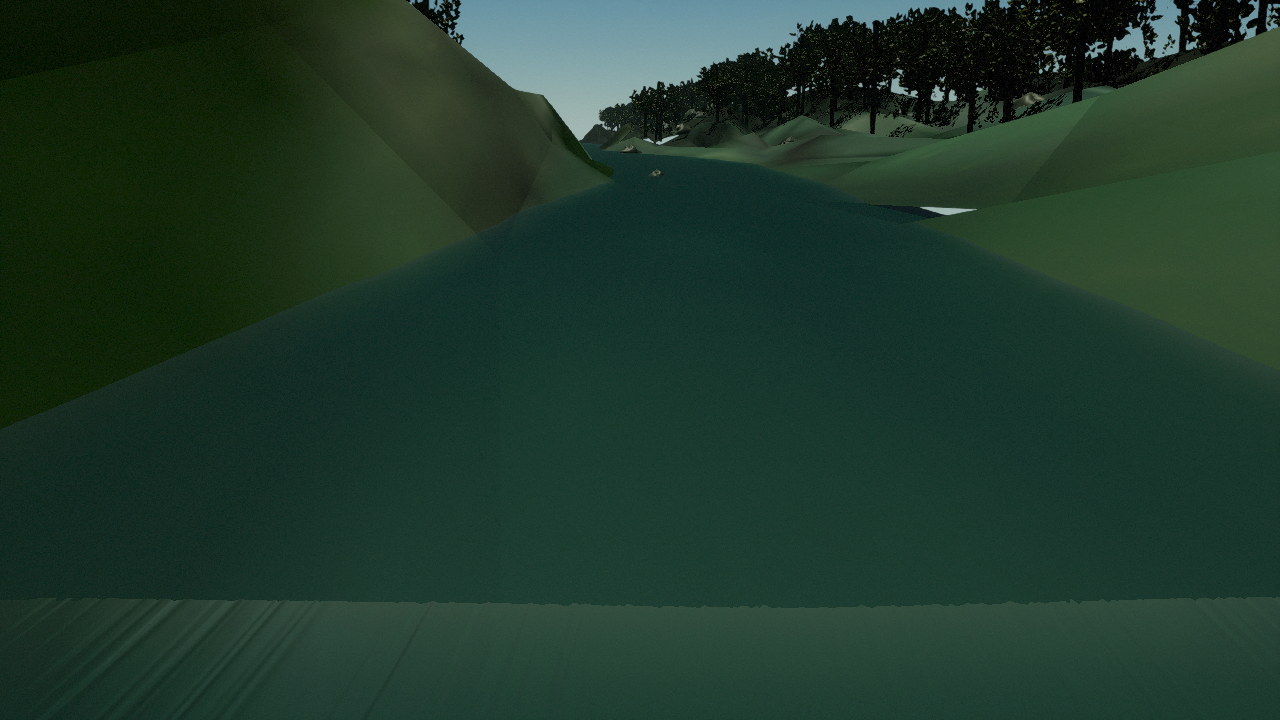
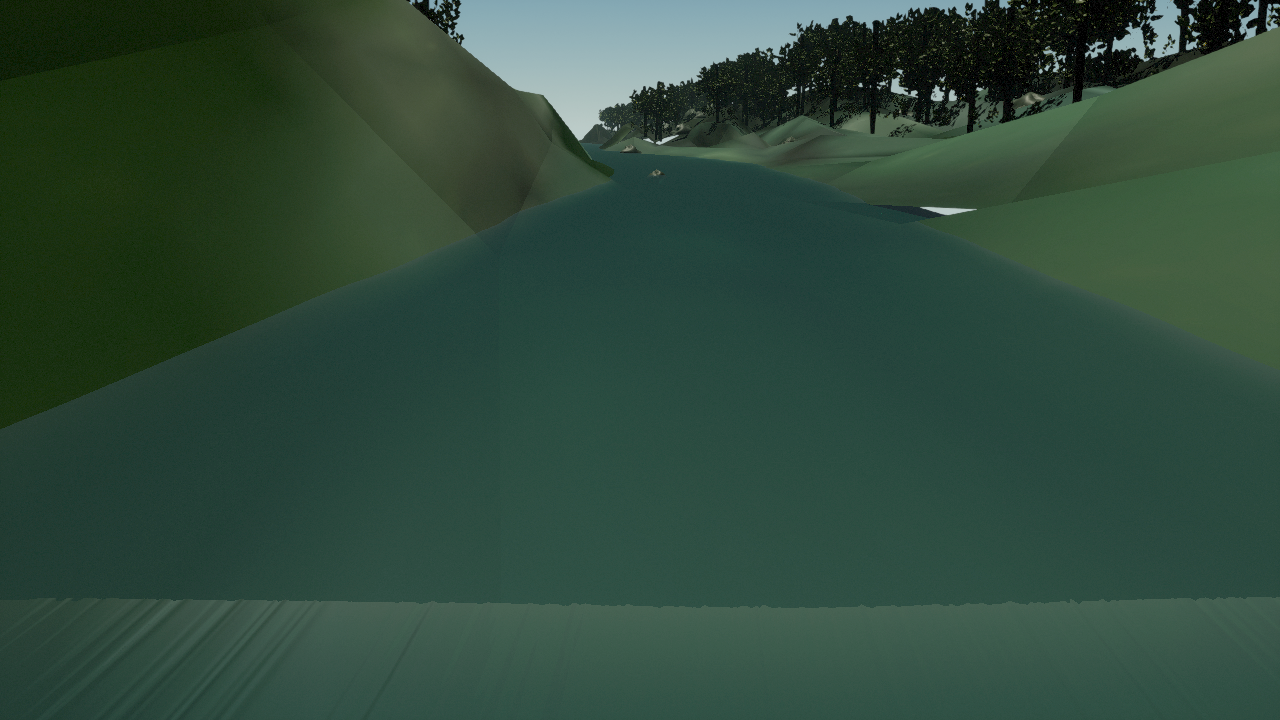
Calibrate river-specific capture photometry

diff --git a/unreal/Plugins/RaftSim/Source/RaftSimEditor/Private/RaftSimEditorModule.cpp b/unreal/Plugins/RaftSim/Source/RaftSimEditor/Private/RaftSimEditorModule.cpp
@@ -286,6 +286,52 @@ FRaftSimLandscapeCandidateWaterSettings GetLandscapeCandidateWaterSettings(const
     return Settings;
 }
 
+struct FRaftSimPhotographicCaptureSettings
+{
+    float SunIntensity = 5.20f;
+    float SkyLightIntensity = 1.25f;
+    float FogDensity = 0.0025f;
+    float ExposureBias = -0.32f;
+    float Saturation = 1.06f;
+    float Contrast = 1.04f;
+    float Sharpen = 0.24f;
+    float Vignette = 0.06f;
+    float FilmGrainIntensity = 0.0f;
+    FLinearColor SunColor = FLinearColor(0.98f, 0.965f, 0.91f);
+    FLinearColor FogColor = FLinearColor(0.52f, 0.57f, 0.50f);
+};
+
+FRaftSimPhotographicCaptureSettings GetPhotographicCaptureSettings(const FString& RiverId)
+{
+    FRaftSimPhotographicCaptureSettings Settings;
+    if (RiverId == TEXT("colorado_river"))
+    {
+        Settings.SunIntensity = 6.40f;
+        Settings.SkyLightIntensity = 1.05f;
+        Settings.FogDensity = 0.0016f;
+        Settings.ExposureBias = -0.38f;
+        Settings.Saturation = 1.10f;
+        Settings.Contrast = 1.07f;
+        Settings.Sharpen = 0.26f;
+        Settings.SunColor = FLinearColor(1.0f, 0.88f, 0.72f);
+        Settings.FogColor = FLinearColor(0.64f, 0.57f, 0.47f);
+    }
+    else if (RiverId == TEXT("pacuare"))
+    {
+        Settings.SunIntensity = 4.60f;
+        Settings.SkyLightIntensity = 1.45f;
+        Settings.FogDensity = 0.0075f;
+        Settings.ExposureBias = -0.18f;
+        Settings.Saturation = 1.04f;
+        Settings.Contrast = 1.03f;
+        Settings.Sharpen = 0.22f;
+        Settings.Vignette = 0.05f;
+        Settings.SunColor = FLinearColor(0.90f, 0.97f, 0.91f);
+        Settings.FogColor = FLinearColor(0.43f, 0.57f, 0.46f);
+    }
+    return Settings;
+}
+
 FRaftSimPreviewWaterMaterialResponse GetPreviewWaterMaterialResponse(const FString& RiverId)
 {
     FRaftSimPreviewWaterMaterialResponse Response;
@@ -15033,17 +15079,16 @@ void AddPreviewLightRig(UWorld* World, const FRaftSimEnvironmentPreviewSpec& Spe
     {
         return;
     }
+    const FRaftSimPhotographicCaptureSettings CaptureSettings =
+        GetPhotographicCaptureSettings(Spec.RiverId);
 
     ADirectionalLight* Sun = Cast<ADirectionalLight>(
         GEditor->AddActor(World->GetCurrentLevel(), ADirectionalLight::StaticClass(), FTransform(FRotator(-58.0f, -30.0f, 0.0f))));
     if (Sun)
     {
         Sun->SetActorLabel(TEXT("RaftSim_Sun_LumenPreview"));
-        Sun->GetLightComponent()->SetIntensity(Spec.bDesertCanyon ? 6.8f : (Spec.bHasWaterfalls ? 5.4f : 5.8f));
-        Sun->GetLightComponent()->SetLightColor(
-            Spec.bDesertCanyon ? FLinearColor(1.0f, 0.84f, 0.66f)
-                                : (Spec.bHasWaterfalls ? FLinearColor(0.88f, 0.96f, 0.90f)
-                                                       : FLinearColor(0.98f, 0.96f, 0.88f)));
+        Sun->GetLightComponent()->SetIntensity(CaptureSettings.SunIntensity);
+        Sun->GetLightComponent()->SetLightColor(CaptureSettings.SunColor);
     }
 
     ASkyLight* SkyLight = Cast<ASkyLight>(
@@ -15053,7 +15098,7 @@ void AddPreviewLightRig(UWorld* World, const FRaftSimEnvironmentPreviewSpec& Spe
         SkyLight->SetActorLabel(TEXT("RaftSim_SkyLight_PhotorealPreview"));
         SkyLight->GetLightComponent()->SetMobility(EComponentMobility::Movable);
         SkyLight->GetLightComponent()->SourceType = SLS_CapturedScene;
-        SkyLight->GetLightComponent()->SetIntensity(Spec.bDesertCanyon ? 0.98f : (Spec.bHasWaterfalls ? 0.74f : 0.68f));
+        SkyLight->GetLightComponent()->SetIntensity(CaptureSettings.SkyLightIntensity);
     }
 
     ASkyAtmosphere* Atmosphere = Cast<ASkyAtmosphere>(
@@ -15068,11 +15113,8 @@ void AddPreviewLightRig(UWorld* World, const FRaftSimEnvironmentPreviewSpec& Spe
     if (Fog)
     {
         Fog->SetActorLabel(Spec.bHasWaterfalls ? TEXT("RaftSim_RainforestMist") : TEXT("RaftSim_CanyonAtmosphere"));
-        Fog->GetComponent()->SetFogDensity(Spec.bHasWaterfalls ? 0.007f : (Spec.bDesertCanyon ? 0.002f : 0.003f));
-        Fog->GetComponent()->SetFogInscatteringColor(
-            Spec.bDesertCanyon ? FLinearColor(0.62f, 0.53f, 0.40f)
-                                : (Spec.bHasWaterfalls ? FLinearColor(0.42f, 0.54f, 0.42f)
-                                                       : FLinearColor(0.50f, 0.54f, 0.45f)));
+        Fog->GetComponent()->SetFogDensity(CaptureSettings.FogDensity);
+        Fog->GetComponent()->SetFogInscatteringColor(CaptureSettings.FogColor);
     }
 
     if (SkyLight && SkyLight->GetLightComponent())
@@ -15112,6 +15154,8 @@ void AddPreviewCameraAndStart(UWorld* World, const FRaftSimEnvironmentPreviewSpe
     {
         return;
     }
+    const FRaftSimPhotographicCaptureSettings CaptureSettings =
+        GetPhotographicCaptureSettings(Spec.RiverId);
 
     ACameraActor* Camera = Cast<ACameraActor>(
         GEditor->AddActor(World->GetCurrentLevel(), ACameraActor::StaticClass(), FTransform(FRotator(-13.5f, 0.0f, 0.0f), FVector(-5250.0f, GetPreviewRiverCenterY(Spec, -5250.0f), 140.0f))));
@@ -15120,63 +15164,41 @@ void AddPreviewCameraAndStart(UWorld* World, const FRaftSimEnvironmentPreviewSpe
         Camera->SetActorLabel(TEXT("RaftSim_GuideSeat_DownstreamCaptureCamera"));
         Camera->GetCameraComponent()->FieldOfView = Spec.bDesertCanyon ? 66.0f : 68.0f;
         Camera->GetCameraComponent()->PostProcessSettings.bOverride_VignetteIntensity = true;
-        Camera->GetCameraComponent()->PostProcessSettings.VignetteIntensity = 0.10f;
+        Camera->GetCameraComponent()->PostProcessSettings.VignetteIntensity = CaptureSettings.Vignette;
         Camera->GetCameraComponent()->PostProcessSettings.bOverride_Sharpen = true;
-        Camera->GetCameraComponent()->PostProcessSettings.Sharpen = 0.34f;
-        const float FirstPartyPhotographicPaletteCompressionSaturation =
-            Spec.bDesertCanyon ? 1.24f : 1.12f;
-        const float FirstPartyPhotographicPaletteCompressionContrast =
-            Spec.bDesertCanyon ? 1.15f : 1.08f;
+        Camera->GetCameraComponent()->PostProcessSettings.Sharpen = CaptureSettings.Sharpen;
         Camera->GetCameraComponent()->PostProcessSettings.bOverride_ColorSaturation = true;
         Camera->GetCameraComponent()->PostProcessSettings.ColorSaturation =
             FVector4(
-                FirstPartyPhotographicPaletteCompressionSaturation,
-                FirstPartyPhotographicPaletteCompressionSaturation,
-                FirstPartyPhotographicPaletteCompressionSaturation,
+                CaptureSettings.Saturation,
+                CaptureSettings.Saturation,
+                CaptureSettings.Saturation,
                 1.0f);
         Camera->GetCameraComponent()->PostProcessSettings.bOverride_ColorContrast = true;
         Camera->GetCameraComponent()->PostProcessSettings.ColorContrast =
             FVector4(
-                FirstPartyPhotographicPaletteCompressionContrast,
-                FirstPartyPhotographicPaletteCompressionContrast,
-                FirstPartyPhotographicPaletteCompressionContrast,
+                CaptureSettings.Contrast,
+                CaptureSettings.Contrast,
+                CaptureSettings.Contrast,
                 1.0f);
         Camera->GetCameraComponent()->PostProcessSettings.bOverride_AutoExposureMethod = true;
         Camera->GetCameraComponent()->PostProcessSettings.AutoExposureMethod = AEM_Manual;
         Camera->GetCameraComponent()->PostProcessSettings.bOverride_AutoExposureBias = true;
-        const float FirstPartyPhotographicPaletteCompressionExposureBias =
-            Spec.bDesertCanyon ? -0.48f : -0.72f;
         Camera->GetCameraComponent()->PostProcessSettings.AutoExposureBias =
-            FirstPartyPhotographicPaletteCompressionExposureBias;
+            CaptureSettings.ExposureBias;
         Camera->GetCameraComponent()->PostProcessSettings.bOverride_AutoExposureApplyPhysicalCameraExposure = true;
         Camera->GetCameraComponent()->PostProcessSettings.AutoExposureApplyPhysicalCameraExposure = 0;
-        const float FirstPartyPhotographicPaletteCompressionFilmGrainIntensity =
-            Spec.bDesertCanyon ? 0.18f : (Spec.bHasWaterfalls ? 0.28f : 0.15f);
         Camera->GetCameraComponent()->PostProcessSettings.bOverride_FilmGrainIntensity = true;
         Camera->GetCameraComponent()->PostProcessSettings.FilmGrainIntensity =
-            FirstPartyPhotographicPaletteCompressionFilmGrainIntensity;
+            CaptureSettings.FilmGrainIntensity;
         Camera->GetCameraComponent()->PostProcessSettings.bOverride_FilmGrainIntensityShadows = true;
-        Camera->GetCameraComponent()->PostProcessSettings.FilmGrainIntensityShadows = 0.82f;
+        Camera->GetCameraComponent()->PostProcessSettings.FilmGrainIntensityShadows = 0.0f;
         Camera->GetCameraComponent()->PostProcessSettings.bOverride_FilmGrainIntensityMidtones = true;
-        Camera->GetCameraComponent()->PostProcessSettings.FilmGrainIntensityMidtones = 0.68f;
+        Camera->GetCameraComponent()->PostProcessSettings.FilmGrainIntensityMidtones = 0.0f;
         Camera->GetCameraComponent()->PostProcessSettings.bOverride_FilmGrainIntensityHighlights = true;
-        Camera->GetCameraComponent()->PostProcessSettings.FilmGrainIntensityHighlights = 0.34f;
+        Camera->GetCameraComponent()->PostProcessSettings.FilmGrainIntensityHighlights = 0.0f;
         Camera->GetCameraComponent()->PostProcessSettings.bOverride_FilmGrainScale = true;
-        Camera->GetCameraComponent()->PostProcessSettings.FilmGrainScale = FVector2f(1.15f, 1.15f);
-        if (Spec.bHasWaterfalls)
-        {
-            Camera->GetCameraComponent()->PostProcessSettings.FilmGrainScale = FVector2f(0.82f, 0.82f);
-        }
-        if (GEngine)
-        {
-            GEngine->LoadDefaultFilmGrainTexture();
-            if (GEngine->DefaultFilmGrainTexture)
-            {
-                Camera->GetCameraComponent()->PostProcessSettings.bOverride_FilmGrainTexture = true;
-                Camera->GetCameraComponent()->PostProcessSettings.FilmGrainTexture =
-                    GEngine->DefaultFilmGrainTexture;
-            }
-        }
+        Camera->GetCameraComponent()->PostProcessSettings.FilmGrainScale = FVector2f(1.0f, 1.0f);
         GEditor->SelectActor(Camera, true, false, true);
     }
 
@@ -18385,6 +18407,8 @@ bool FRaftSimEditorModule::CreateLandscapeImportCandidateMaps(FString& OutSummar
             GetLandscapeMaterialCandidateSettings(Candidate.PreviewSpec.RiverId);
         const FRaftSimLandscapeCandidateWaterSettings WaterSettings =
             GetLandscapeCandidateWaterSettings(Candidate.PreviewSpec.RiverId);
+        const FRaftSimPhotographicCaptureSettings CaptureSettings =
+            GetPhotographicCaptureSettings(Candidate.PreviewSpec.RiverId);
 
         EntriesJson += FString::Printf(
             TEXT("%s    {\n")
@@ -18399,6 +18423,16 @@ bool FRaftSimEditorModule::CreateLandscapeImportCandidateMaps(FString& OutSummar
             TEXT("      \"solver_rapid_river_eye_capture\": \"%s\",\n")
             TEXT("      \"solver_rapid_capture_status\": \"%s\",\n")
             TEXT("      \"status\": \"%s\",\n")
+            TEXT("      \"photographic_capture_status\": \"river_specific_recorded_capture_photometry_no_camera_film_grain\",\n")
+            TEXT("      \"photographic_sun_intensity\": %.6f,\n")
+            TEXT("      \"photographic_skylight_intensity\": %.6f,\n")
+            TEXT("      \"photographic_fog_density\": %.6f,\n")
+            TEXT("      \"photographic_exposure_bias\": %.6f,\n")
+            TEXT("      \"photographic_saturation\": %.6f,\n")
+            TEXT("      \"photographic_contrast\": %.6f,\n")
+            TEXT("      \"photographic_sharpen\": %.6f,\n")
+            TEXT("      \"photographic_vignette\": %.6f,\n")
+            TEXT("      \"photographic_film_grain_intensity\": %.6f,\n")
             TEXT("      \"heightfield_format\": \"16-bit grayscale PNG\",\n")
             TEXT("      \"heightfield_width_px\": 1009,\n")
             TEXT("      \"heightfield_height_px\": 1009,\n")
@@ -18531,6 +18565,15 @@ bool FRaftSimEditorModule::CreateLandscapeImportCandidateMaps(FString& OutSummar
                        : TEXT("solver_rapid_capture_failed"))
                 : TEXT("not_available_without_river_specific_validated_solver_field"),
             bCandidateSucceeded ? TEXT("captured_source_landscape_import_candidate") : TEXT("candidate_generation_or_capture_failed"),
+            CaptureSettings.SunIntensity,
+            CaptureSettings.SkyLightIntensity,
+            CaptureSettings.FogDensity,
+            CaptureSettings.ExposureBias,
+            CaptureSettings.Saturation,
+            CaptureSettings.Contrast,
+            CaptureSettings.Sharpen,
+            CaptureSettings.Vignette,
+            CaptureSettings.FilmGrainIntensity,
             static_cast<uint32>(Result.SourceHeightMin),
             static_cast<uint32>(Result.SourceHeightMax),
             static_cast<uint32>(Result.ChannelFloor),

diff --git a/docs/photoreal-river-environment-production-plan.md b/docs/photoreal-river-environment-production-plan.md
@@ -143,6 +143,7 @@ Initial source slice:
 - Guide-seat lifelike-candidate captures now skip review-only raft/oar foreground proxy generation in regenerated maps, while retaining the river-eye/guide-seat hidden-actor path as a legacy fallback for older maps. This lets river-corridor screenshots be judged without dark placeholder boat props; production player-view screenshots still require approved raft, oar, rigging, hand, and camera art.
 - Terrain erosion-rill and bank-gully strips now run cross-bank across canyon walls, foothill banks, and rainforest slopes. They add downslope shadow/deposit cues on top of the Landscape/Nanite preview scaffold, but production terrain still needs conditioned Landscape imports, channel burning, material instances, and guide/geospatial approval before lifelike status.
 - Legacy/base preview maps keep `M_RaftSim_VertexColorWaterPreview`, while the isolated source-Landscape maps now evaluate `M_RaftSim_SingleLayerWaterCandidate` and three river-specific instances on the same generated `ProceduralMeshComponent` ribbon. Direct reuse of installed Unreal Water/WaterAdvanced plugin materials remains rejected because those graphs expect WaterBody/WaterZone integration and produced near-black captures. The custom parent instead uses Unreal's opaque `SingleLayerWater` shading model without WaterBody authority, with exposed scattering, absorption, phase g, behind-water color scale, surface and legacy-vertex tint weights, two-scale first-party normal-atlas sampling, roughness, specular, opacity, IOR, and a bounded Fresnel sky-fill fallback. A movable skylight and runtime corridor sphere capture serve real editor rendering; evidence capture scopes the reflection-cubemap mode and persistent view state without changing saved game settings. River-specific width overlap, displacement damping, and render-normal smoothing affect presentation only and cannot change the custom C++ solver, authored flow, forcing, or conservation checks. The generated preview maps still hide review-only foreground raft/oar actors in river-eye captures, use fixed manual exposure, and warm shaders before pixel readback. The result compiles, binds, and captures cleanly for all three rivers, but visual inspection still shows a smooth review ribbon, coarse riverbed/bank transitions, repeated terrain/foliage, and no solver-derived foam/spray/mist; it is not production or lifelike evidence.
+- Landscape-candidate photometry is now a first-class reproducibility contract. `FRaftSimPhotographicCaptureSettings` supplies river-specific sun, skylight, fog, manual exposure, saturation, contrast, sharpening, and vignette values; camera film grain is fixed at zero, and `landscape_candidate_manifest.json` records every applied value. The calibrated recapture builds and renders cleanly and retains more diagnostic shadow information, but it still exposes near-black repeated foliage and flat overlapping foreground water/bank geometry. Those failures must be corrected in materials, species assets, water geometry, and bank transitions rather than concealed with brighter exposure or post-process noise.
 - The generated river ribbon now includes bounded flow-aware mesh undulation driven by each river's current-cue and foam scales. This gives the water surface actual review geometry for tongues and standing-wave hints while remaining preview-only and non-authoritative until solver-driven water displacement and production shader work are approved.
 - A flow-aware micro-ripple/glint pass now adds many small, low-opacity first-party streaks across the active water surface using each river's flow cue scale and width. This gives the river-eye captures more local surface texture without changing solver authority, feature forcing, or the future production water-shader/WaterBody requirement.
 - The base river ribbon now bakes first-party depth/current grading into its vertex colors: river-specific muted deep water, center current tongues, sediment threads, and restrained sky-thread highlights are blended into the higher-resolution mesh. This is a preview readability pass only; production water still needs the physically plausible shader or WaterBody integration, solver-driven surface detail, and guide review before lifelike approval.
@@ -323,7 +324,7 @@ Initial source slice:
 - The existing default map path `/Game/RaftSim/Maps/L_RaftSimBoot` has no committed level asset yet.
 - Local Unreal content inventory found no committed Megascans/Quixel/Fab or photogrammetry environment assets for rocks, foliage, cliffs, water, foam, mist, or terrain materials. The new first-party procedural-equivalent recipe manifest is approved as the next replacement path, but lifelike screenshots still require those recipes to become production-quality Unreal materials/assets or to be replaced by rights-cleared imports.
 - First-party near-field riverbed debris and pebble dressing now places non-colliding, source-mask-biased waterline stones plus wet leaf, sand, and debris cards in the guide-seat corridor for South Fork, Colorado, and Pacuare. This improves foreground scale and bank/water contact cues without importing third-party photos or meshes; it remains review-only until production assets, hazard readability, rights/provenance, guide/geospatial review, and performance evidence pass.
-- First-party photographic color-grade and palette compression remains active through bounded saturation, contrast, and exposure presets. Engine-side film-grain/dither is now disabled so edge and entropy improvements must come from the rendered geometry, materials, foliage, water, VFX, and lighting rather than post-process noise.
+- First-party photographic color-grade and palette compression remains active through bounded, river-specific saturation, contrast, exposure, lighting, and atmosphere presets. Engine-side film-grain/dither and camera film grain are both disabled, and every candidate value is manifest-recorded, so edge and entropy improvements must come from rendered geometry, materials, foliage, water, VFX, and lighting rather than post-process noise.
 - First-party source-aware terrain surface granularity now increases generated terrain tessellation and adds bounded mineral, sand/leaf-litter, vegetation, and centimeter-scale microrelief flecks directly to the base terrain mesh. It targets the remaining broad smooth slope and one-color bank look in the current captures without adding floating card artifacts or changing authoritative terrain/collision; production Landscape/Nanite terrain materials and reviewed source imports still gate lifelike approval.
 - The production geospatial readiness matrix is attached, but it deliberately keeps all three rivers in `preview_only_not_lifelike` status: South Fork has the strongest solver/source package plus a review-gated NHD HU8 source extract, derived mainstem candidate, preview stationing, cross-section seeds, and a mask-alignment diagnostic; Colorado has release/gauge samples plus a stitched NHD HU8 Lees Ferry source overlay, exact-graph mainstem candidate, preview metric stationing, cross-section seeds, and a preview alignment diagnostic but not accepted river-mile geometry, full canyon terrain, or sandbar/bank review; and Pacuare has DEM tiles, a generated preview centerline/stationing scaffold, Direccion de Agua WMS metadata, SNIT node layer-list metadata, and selected SNIT per-layer metadata but still lacks imported authoritative hydrography, station/rainfall records, local flow bands, and publication-cleared protected-area/access review.
 - Colorado and Pacuare still need full-corridor geospatial processing, hydrology review, guide review, and rights-cleared field/reference media.

diff --git a/TODO.md b/TODO.md
@@ -1194,12 +1194,13 @@ This milestone turns the three runnable river targets into complete, reviewable,
   - [x] Add a purpose-built Single Layer Water branch to the isolated source-Landscape candidates: generate an opaque `M_RaftSim_SingleLayerWaterCandidate` parent plus three river-specific material instances with scattering, absorption, phase g, behind-water color scale, IOR, two-scale normal-atlas detail, surface/legacy-vertex tint controls, bounded render-normal smoothing, bank overlap, displacement damping, movable sky/corridor reflection captures, persistent capture view state, and a small Fresnel sky-fill fallback. All three instances compile, bind, map-check, and produce guide-seat/river-eye evidence without WaterBody/WaterZone authority or changing custom C++ solver/forcing authority. The result remains review-only: captures still show smooth ribbon water, coarse provisional riverbed/bank transitions, and no production solver-derived displacement, foam, spray, mist, seasonal guide review, hazard/rescue readability approval, or desktop/VR performance evidence.
   - [x] Condition source-Landscape riverbeds and wet banks from the existing source-derived material-zone maps: bind `SourceConditionedMaterialZones` as the seventh Landscape texture, use its visible-water channel to preserve but darken source/detail riverbed color and increase submerged roughness, and use its feathered edge for river-specific wet-bank darkening. Regenerated captures replace the pale foreground channel floor with wet riverbed color without changing Landscape geometry, solver state, forcing, or conservation authority. The hard near-camera water/riverbed boundary, coarse channel geometry, and smooth water surface remain review blockers pending solver-sampled surface fields and production bank/riverbed geometry.
   - [x] Bind a provenance-locked custom C++ solver visualization derivative to the South Fork Landscape water candidate: `solver_visualization_fields.py` converts the accepted whole-window median finite-volume frame into a clamped macro-normal texture plus packed RGBA depth/speed/Froude/detrended-`eta` texture, verifies the source frame/run hashes, corrected scenario boundaries, disabled feature forcing, passing GeoClaw parity, passing full C++ gate, and Milestone 20 report-set lock, and preserves the full ±4 m relief range under a 36 cm render ceiling. The noncolliding ribbon now reduces residual analytic waves, applies solver-derived surface relief, decodes speed/Froude through exposed bounded visual gains, and places a noncolliding translucent foam sheet with deterministic micro-breakup only inside the hydraulic aeration mask. A dedicated South Fork rapid camera frames the strongest accepted mean-Froude approach; Colorado and Pacuare explicitly keep all solver fields and foam disabled instead of reusing South Fork hydraulics. A clean-start UE 5.8 compile/recapture has no shader fallback, all 26 photoreal asset tests pass, and the manifests record the review-only/no-physics-authority contract. The rapid capture now distinguishes a foamy supercritical tongue from the calm upstream capture, but the 20x56 validation field cannot provide crest-scale turbulence, spray, production bank geometry, or lifelike biome art.
+  - [x] Centralize and record river-specific photographic capture settings for the isolated Landscape candidates: South Fork, Grand Canyon, and Pacuare now use explicit sun, skylight, fog, exposure, saturation, contrast, sharpen, and vignette values from one C++ contract, with camera film grain fixed at zero. The generated candidate manifest records every value, the UE 5.8 editor target and clean offscreen recapture pass without shader/material errors, and all 26 environment tests pass. Visual review remains blocked: recovered sky fill does not fix near-black repeated foliage, coarse terrain, or the flat overlapping foreground water/bank ribbon, so further exposure tuning cannot substitute for production shading and geometry.
   - [ ] Replace smooth generated terrain/water geometry and proxy rocks/foliage with production Landscape/Nanite geometry, biome-specific foliage, physically plausible water shading, and reviewed atmosphere/VFX until the July 9 base and flow blockers clear without synthetic grain or overlay cards.
   - [ ] Extend solver-derived rendering from the South Fork review derivative to live per-frame ribbon displacement, velocity-aligned micro-normal advection, wet/dry bank transitions, and foam/aeration masks; add equivalent river- and flow-specific fields for Colorado and Pacuare only after their own accepted C++/GeoClaw scenarios exist.
   - [ ] Run human art, guide, geospatial, rights, hazard-readability, and performance review only after the active automated blocker set clears; do not send the current blocked captures for lifelike approval.
 - [ ] Add or license production-quality river environment asset packs/materials, or generate approved first-party procedural equivalents, for canyon walls, riverbeds, wet boulders, shore vegetation, tropical canopy, foam/spray/mist, raft foreground, and river-specific atmospheric lighting.
   - [x] Add first-party near-field riverbed debris and pebble dressing: generated preview maps now place source-mask-biased, non-colliding waterline stones plus wet leaf/sand/debris cards in the guide-seat corridor for all three rivers, improving foreground scale cues while keeping production asset, rights, guide, hazard-readability, and performance approval open.
-  - [x] Add first-party photographic color-grade and palette compression: generated preview captures use bounded camera saturation/contrast/exposure presets; the former engine-side film-grain/dither hook is now disabled so capture metrics and human review must come from rendered scene detail rather than synthetic noise.
+  - [x] Add first-party photographic color-grade and palette compression: generated preview captures use bounded camera saturation/contrast/exposure presets; both the engine-side film-grain/dither hook and camera film grain are now disabled so capture metrics and human review must come from rendered scene detail rather than synthetic noise.
   - [x] Add first-party source-masked shoreline lip/overhang edge breakup: generated preview maps now place non-colliding, source-mask-biased wet-bank lip meshes that overlap the waterline slightly to break up ruler-straight bank/water edges while keeping channel geometry, hazards, guide review, and production terrain materials open.
   - [x] Add first-party source-aware terrain surface granularity: generated terrain now uses denser preview tessellation plus bounded mineral, leaf-litter, vegetation, and microrelief flecks on broad banks/canyon/rainforest slopes so large smooth color fields read less synthetic while production Landscape/Nanite materials remain open.
   - [x] Add first-party Pacuare/rainforest river-eye slope texture: the generated base terrain now bakes source-mask-bounded moss, leaf-litter, root-vein mottle, and small relief into Pacuare gorge banks so river-eye captures do not depend on smooth green proxy slopes while production Landscape/Nanite terrain and rights-cleared foliage remain open.

diff --git a/docs/unreal-photoreal-open-world-stack.md b/docs/unreal-photoreal-open-world-stack.md
@@ -33,7 +33,9 @@ The generated preview maps live under `/Game/RaftSim/Maps/EnvironmentPreviews/`,
 
 The first native source-terrain candidates now live under `/Game/RaftSim/Maps/EnvironmentPreviews/LandscapeCandidates/`. `RaftSim.CreateLandscapeImportCandidateMaps` imports the three review-gated 1009x1009 16-bit PNG heightfields through Unreal's `LandscapeEditor` format API as 16x16-component `ALandscape` maps, builds four Nanite representations per river, audits all 256 source component and Nanite material bindings, and captures guide-seat plus river-eye evidence under `docs/environment-captures/photoreal_river_previews/landscape_candidates/`. Each candidate material combines four source-conditioned Texture2D assets with three independent first-party close-range terrain Texture2D assets. Macro albedo, normals, ambient occlusion, and roughness retain source/detail variation; the material-zone blue channel darkens submerged riverbed color/roughness and its feathered edge conditions the wet bank without altering geometry. River-specific Landscape mapping and all bounded zone settings are recorded in the generated manifest. PVE/Nanite-foliage evaluation is active in these maps: source masks and imported Landscape heights drive HISM broadleaf/conifer crowns, understory, and bark-material trunks while first-party dense irregular rock meshes add bounded river-specific dressing. The maps also bind a custom opaque `SingleLayerWater` parent and per-river material instances to the solver-owned procedural ribbon. These expose volume coefficients, IOR, surface/vertex tint balance, normal-atlas detail, bounded render overlap/smoothing, reflection captures, and a small Fresnel capture fallback without requiring WaterBody/WaterZone or changing physics/forcing authority. South Fork additionally binds two clamped Texture2D derivatives from the accepted whole-window median finite-volume C++ frame: tangent macro normals and packed RGBA depth/speed/Froude/detrended-`eta`. `cpp_solver_visualization_field_manifest.json` records source hashes, corrected boundary and HLL semantics, `feature_strength_scale=0`, passing GeoClaw comparison, passing full C++ gate, the accepted report-set lock, visual decode gains, and a lossless ±4 m relief encoding under a 36 cm render ceiling. The noncolliding candidate ribbon uses that relief with only 42% residual analytic displacement and adds a separate noncolliding DefaultLit foam surface whose deterministic breakup is confined to the decoded speed/Froude aeration mask. A dedicated South Fork rapid camera frames the strongest accepted mean-Froude approach, while the standard upstream capture remains calm. None of these render derivatives changes solver state, collision, raft force, conservation evidence, or feature forcing, and none is reused for Colorado or Pacuare. The offscreen renderer uses persistent view state plus a first render to request shader permutations, waits for compilation, recreates Landscape component state, and then records the evidence frame; this prevents UE 5.8's fallback grid or missing reflection history from masquerading as final shading. The candidates remain isolated and review-gated because their analytic preview channel burn is not solver or accepted geospatial geometry, the PVE twig assemblies and procedural rocks are evaluation content rather than final biome assets, and visual inspection still shows hard riverbed boundaries, coarse banks, repeated silhouettes, low-resolution whitewater, and missing crest-scale spray, atmosphere, and production VFX.
 
-The renderer disables legacy terrain and water overlay proxy geometry plus synthetic film-grain dither. The source-terrain pass samples each review-gated 2017px DEM derivative bilinearly, feathers stitched-tile center seams, separates meter-scale macro relief from bounded multi-scale erosion residuals, and uses river-specific normal flattening. Legacy/base water uses a dedicated DefaultLit parent; the Landscape candidate branch now exercises the custom Single Layer Water parent with river-specific physical volume and render controls while preserving the same C++ ribbon authority. This makes South Fork banks, Grand Canyon walls, the Pacuare gorge, and flow-scaled wave bands more reviewable while preserving the analytic channel until conditioning and channel burning are approved. Neither branch is production water: the current captures still lack credible solver-derived displacement/reflection, riverbed transitions, foam, spray, mist, and seasonal guide approval.
+Candidate lighting and post-processing now come from one river-specific `FRaftSimPhotographicCaptureSettings` contract rather than scattered desert/rainforest conditionals. Sun, skylight, fog, manual exposure, saturation, contrast, sharpening, vignette, and zero camera-film-grain values are serialized into `landscape_candidate_manifest.json` for every evidence frame. A clean UE 5.8 rebuild and offscreen recapture produced no material or shader errors and all 26 environment tests pass. The controlled sky fill improves diagnostic shadow retention, but visual review still finds near-black repeated foliage, coarse terrain plates, and a flat overlapping foreground water/bank ribbon; these are production material/geometry blockers, not reasons to hide the scene with stronger exposure or post-process noise.
+
+The renderer disables legacy terrain and water overlay proxy geometry, engine-side synthetic film-grain dither, and camera film grain. The source-terrain pass samples each review-gated 2017px DEM derivative bilinearly, feathers stitched-tile center seams, separates meter-scale macro relief from bounded multi-scale erosion residuals, and uses river-specific normal flattening. Legacy/base water uses a dedicated DefaultLit parent; the Landscape candidate branch now exercises the custom Single Layer Water parent with river-specific physical volume and render controls while preserving the same C++ ribbon authority. This makes South Fork banks, Grand Canyon walls, the Pacuare gorge, and flow-scaled wave bands more reviewable while preserving the analytic channel until conditioning and channel burning are approved. Neither branch is production water: the current captures still lack credible live solver-derived displacement/reflection, riverbed transitions, crest-scale foam, spray, mist, and seasonal guide approval.
 
 Final approval still requires source-aligned production Landscape/Nanite geometry, credible bank and riverbed transitions, biome-specific foliage, varied rocks, physically plausible solver-informed water shading, reviewed foam/mist/lighting, guide/art/geospatial/hazard/rights review, and measured desktop/VR evidence. The current screenshots are cleaner diagnostic blockouts, not photoreal environments.
 
